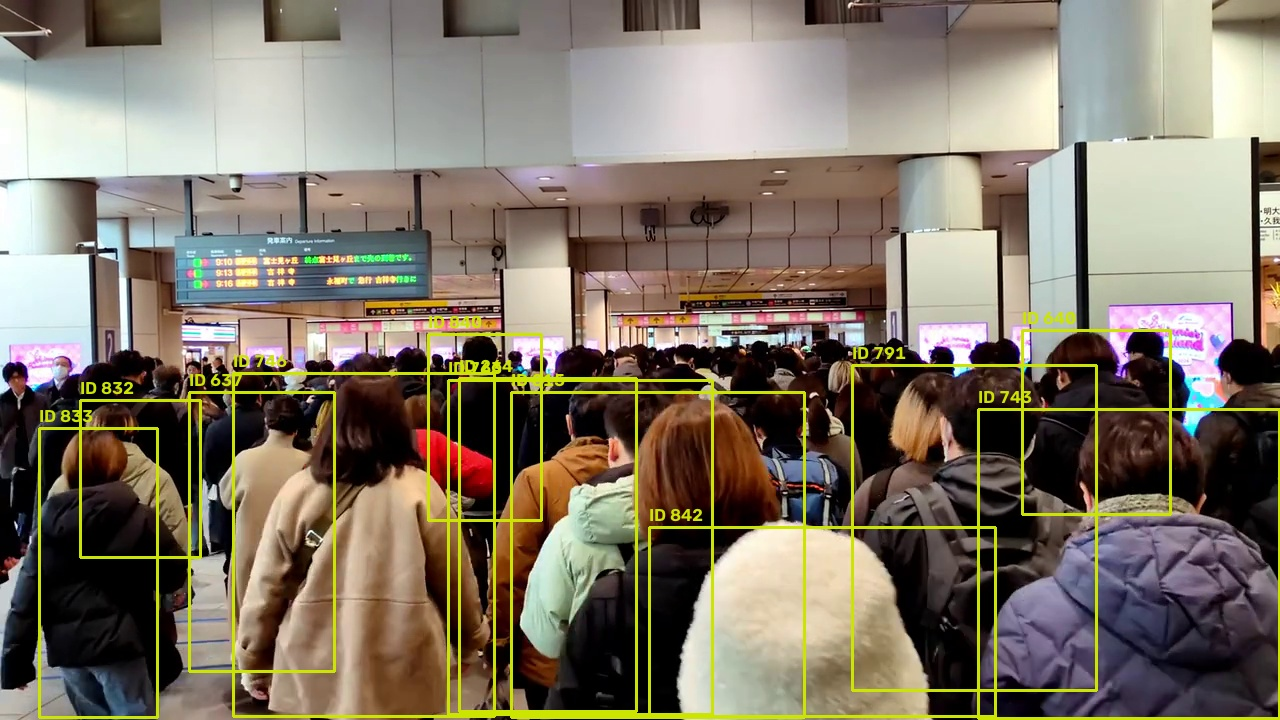
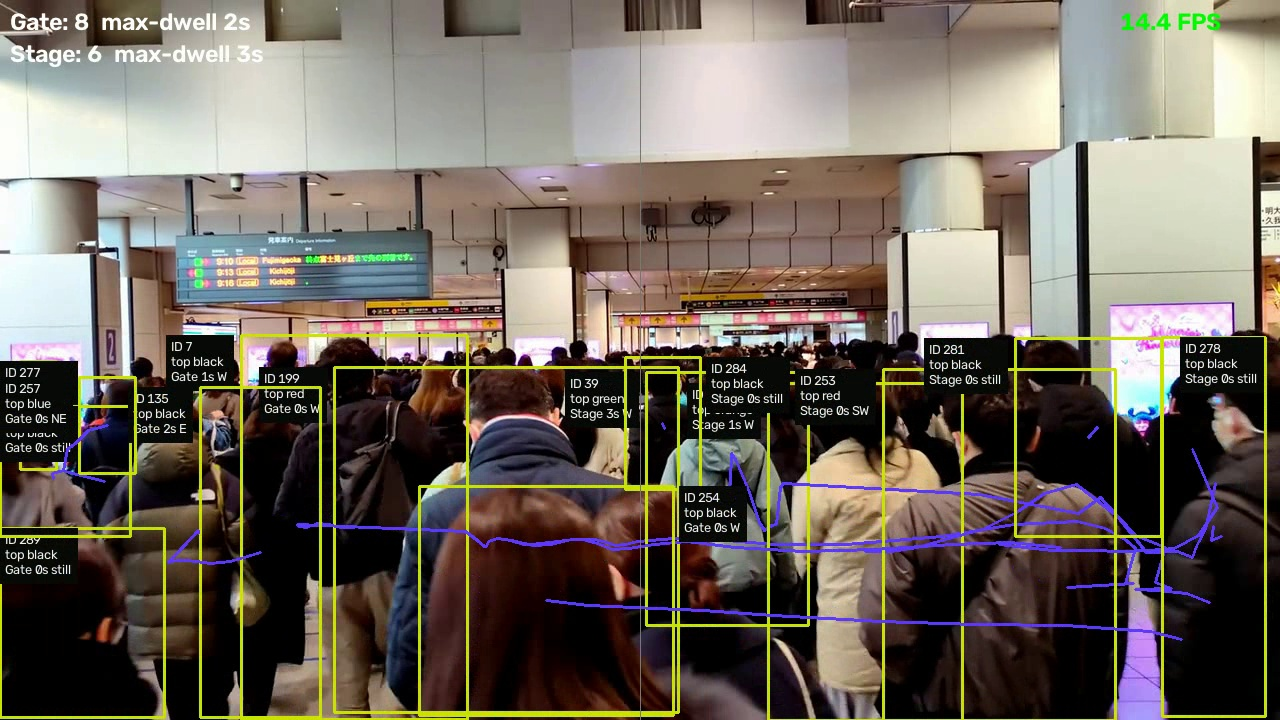
feat: chinese-style attribute panels on every track (color, zone, dwell, direction)

diff --git a/raksha/vision/attributes.py b/raksha/vision/attributes.py
@@ -1,0 +1,53 @@
+"""Per-track attributes, Chinese-VMS style: top clothing color, direction, speed."""
+import cv2
+import numpy as np
+
+
+def top_color(frame, xyxy):
+    """Dominant torso color name from HSV. Torso = upper-middle band of box."""
+    x1, y1, x2, y2 = [int(v) for v in xyxy]
+    h, w = frame.shape[:2]
+    x1, y1 = max(0, x1), max(0, y1)
+    x2, y2 = min(w, x2), min(h, y2)
+    bh = y2 - y1
+    if bh < 20 or x2 - x1 < 10:
+        return "unknown"
+    torso = frame[y1 + int(bh * 0.2):y1 + int(bh * 0.55), x1:x2]
+    if torso.size == 0:
+        return "unknown"
+    hsv = cv2.cvtColor(torso, cv2.COLOR_BGR2HSV)
+    mh, ms, mv = [float(np.median(hsv[:, :, i])) for i in range(3)]
+    if mv < 50:
+        return "black"
+    if ms < 40:
+        return "white" if mv > 180 else "gray"
+    if mh < 10 or mh > 165:
+        return "red"
+    if mh < 25:
+        return "orange"
+    if mh < 35:
+        return "yellow"
+    if mh < 80:
+        return "green"
+    if mh < 100:
+        return "cyan"
+    if mh < 130:
+        return "blue"
+    return "purple"
+
+
+def direction(trail, fps=15.0):
+    """Compass direction + px/s from trail deque of (x, y)."""
+    if len(trail) < 5:
+        return "still", 0.0
+    x0, y0 = trail[0]
+    x1, y1 = trail[-1]
+    dx, dy = x1 - x0, y1 - y0
+    dist = float(np.hypot(dx, dy))
+    if dist < 8:
+        return "still", 0.0
+    ang = float(np.degrees(np.arctan2(-dy, dx)))  # y down, so flip; 0=E, 90=N
+    dirs = ["E", "NE", "N", "NW", "W", "SW", "S", "SE"]
+    label = dirs[int(((ang + 360) % 360 + 22.5) // 45) % 8]
+    speed = dist / max(len(trail) / fps, 1e-3)
+    return label, round(speed, 1)

diff --git a/raksha/backend/app.py b/raksha/backend/app.py
@@ -18,6 +18,8 @@ from raksha.vision.faces import FaceEngine
 from raksha.vision.gallery import Gallery
 from raksha.vision.dossier import Dossier
 from raksha.vision.brain import CrowdBrain
+from raksha.vision.attributes import top_color, direction
+from raksha.vision.overlay import draw_track
 
 SNAP_DIR = "D:/Q_project/gallery/snaps"
 os.makedirs(SNAP_DIR, exist_ok=True)
@@ -53,16 +55,21 @@ def vision_loop(src):
         zc = zones.count(dets, f.shape)
         br = brain.update(f, sum(z["count"] for z in zc.values()))
         H, W = f.shape[:2]
+        zone_of, dwell_of = {}, {}
+        for zname, z in zc.items():
+            for tid in z["ids"]:
+                zone_of[tid] = zname
+                dwell_of[tid] = z["dwell_s"].get(tid, 0)
         for d in dets:
             if d["id"] is None:
                 continue
             x1, y1, x2, y2 = map(int, d["xyxy"])
             tr = trails.setdefault(d["id"], deque(maxlen=30))
             tr.append(((x1 + x2) // 2, (y1 + y2) // 2))
-            cv2.rectangle(f, (x1, y1), (x2, y2), (0, 229, 204), 2)
-            cv2.putText(f, f"ID {d['id']}", (x1, y1 - 8), cv2.FONT_HERSHEY_SIMPLEX, 0.7, (0, 229, 204), 2)
-            for i in range(1, len(tr)):
-                cv2.line(f, tr[i - 1], tr[i], (255, 59, 92), 2)
+            dlbl, spd = direction(tr)
+            extra = [f"top {top_color(f, d['xyxy'])}",
+                     f"{zone_of.get(d['id'], '-')} {dwell_of.get(d['id'], 0):.0f}s {dlbl}"]
+            draw_track(f, d, tr, extra)
         if eng and n % 12 == 0:
             for fc in eng.get_faces(f):
                 nm, sim, meta = gal.search(fc["embedding"])

diff --git a/raksha/vision/overlay.py b/raksha/vision/overlay.py
@@ -1,0 +1,45 @@
+"""Chinese-VMS style overlay: box plus attached multi-line attribute panel."""
+import cv2
+
+BOX = (0, 229, 204)
+TRAIL = (255, 59, 92)
+PANEL_BG = (10, 10, 10)
+PANEL_FG = (240, 240, 240)
+FONT = cv2.FONT_HERSHEY_SIMPLEX
+
+
+def draw_panel(frame, x, y, lines, scale=0.45, side="right"):
+    """Dark label stack at (x, y). Returns bottom y."""
+    fs, th, pad, lh = scale, 1, 5, 15
+    widths = [cv2.getTextSize(t, FONT, fs, th)[0][0] for t in lines]
+    bw, bh = max(widths) + pad * 2, len(lines) * lh + pad * 2
+    H, W = frame.shape[:2]
+    if side == "left":
+        x = x - bw - 8
+    if x + bw > W:
+        x = max(0, x - bw - 8)
+    if x < 0:
+        x = 0
+    y = max(0, min(y, H - bh))
+    cv2.rectangle(frame, (x, y), (x + bw, y + bh), PANEL_BG, -1)
+    for i, t in enumerate(lines):
+        cv2.putText(frame, t, (x + pad, y + pad + (i + 1) * lh - 4), FONT, fs, PANEL_FG, th, cv2.LINE_AA)
+    return y + bh
+
+
+def draw_track(frame, det, trail, extra_lines=None):
+    x1, y1, x2, y2 = [int(v) for v in det["xyxy"]]
+    cv2.rectangle(frame, (x1, y1), (x2, y2), BOX, 2)
+    for i in range(1, len(trail)):
+        cv2.line(frame, trail[i - 1], trail[i], TRAIL, 2)
+    lines = [f"ID {det['id']}"]
+    if extra_lines:
+        lines += extra_lines
+    try:
+        side = "left" if int(det["id"]) % 2 else "right"
+    except (TypeError, ValueError):
+        side = "right"
+    if side == "left":
+        draw_panel(frame, x1, y1, lines, side="left")
+    else:
+        draw_panel(frame, x2 + 6, y1, lines)

diff --git a/scripts/live.py b/scripts/live.py
@@ -7,6 +7,8 @@ sys.path.insert(0, "D:/Q_project")
 from raksha.vision.ingest import open_source, read_frame
 from raksha.vision.tracker import PersonTracker
 from raksha.vision.zones import ZoneCounter
+from raksha.vision.attributes import top_color, direction
+from raksha.vision.overlay import draw_track
 
 ap = argparse.ArgumentParser()
 ap.add_argument("source", nargs="?", default="0")
@@ -34,6 +36,11 @@ while True:
     dets = trk.update(f)
     zc = zones.count(dets, f.shape)
     H, W = f.shape[:2]
+    zone_of, dwell_of = {}, {}
+    for zname, z in zc.items():
+        for tid in z["ids"]:
+            zone_of[tid] = zname
+            dwell_of[tid] = z["dwell_s"].get(tid, 0)
     for d in dets:
         if d["id"] is None:
             continue
@@ -41,10 +48,10 @@ while True:
         cx, cy = (x1 + x2) // 2, (y1 + y2) // 2
         tr = trails.setdefault(d["id"], deque(maxlen=30))
         tr.append((cx, cy))
-        cv2.rectangle(f, (x1, y1), (x2, y2), (0, 229, 204), 2)
-        cv2.putText(f, f"ID {d['id']}", (x1, y1 - 8), cv2.FONT_HERSHEY_SIMPLEX, 0.7, (0, 229, 204), 2)
-        for i in range(1, len(tr)):
-            cv2.line(f, tr[i - 1], tr[i], (255, 59, 92), 2)
+        dlbl, spd = direction(tr)
+        extra = [f"top {top_color(f, d['xyxy'])}",
+                 f"{zone_of.get(d['id'], '-')} {dwell_of.get(d['id'], 0):.0f}s {dlbl}"]
+        draw_track(f, d, tr, extra)
     # zone divider + panel
     cv2.line(f, (W // 2, 0), (W // 2, H), (120, 120, 120), 1)
     y = 30
